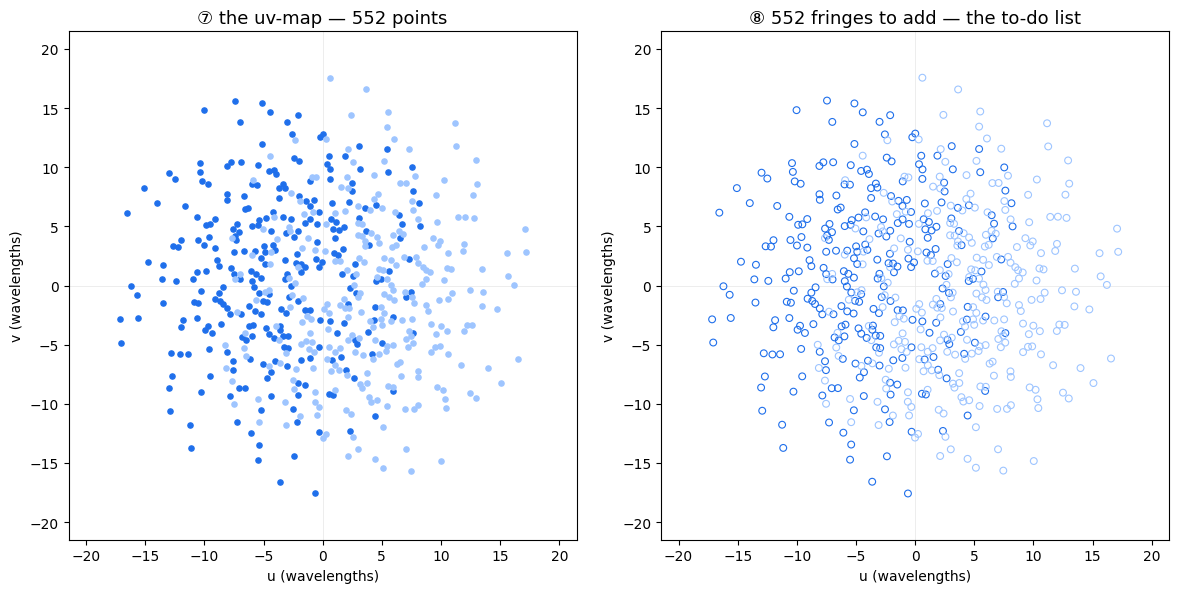
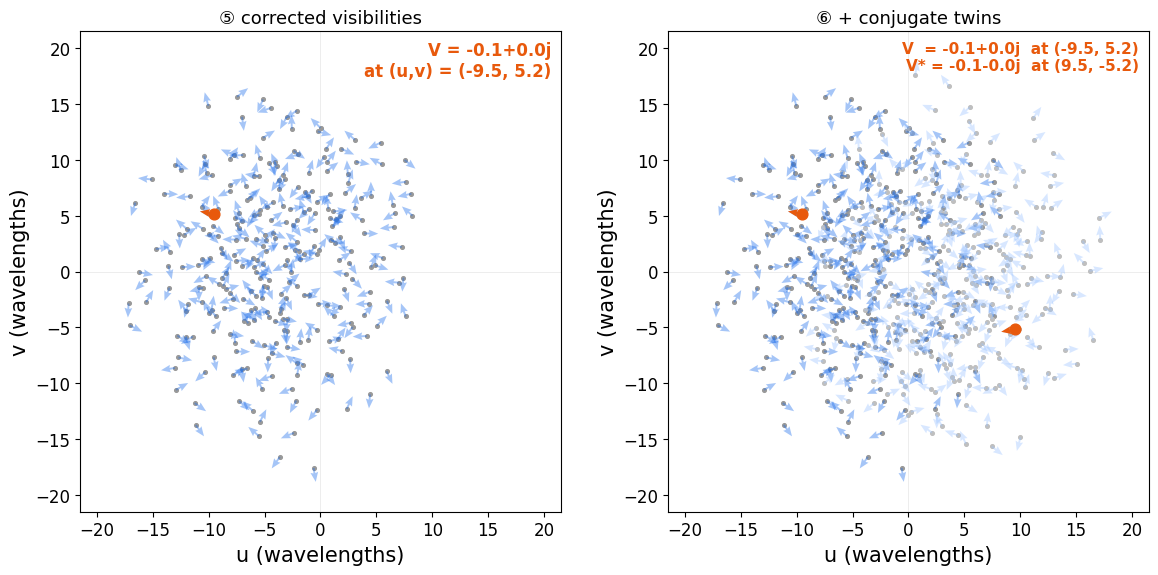
uv shenanigans added again, 4 slides

diff --git a/src/App.jsx b/src/App.jsx
@@ -32,16 +32,19 @@ const SLIDE_DATA = [
     layout: "interactive",
     instances: [ { sep: 0.87, ang: 109 }, { sep: 1.20, ang: 163 } ]
   },
-  {
-    stage: "The Map", title: "From Antennas to Calibrated Visibilities",
-    layout: "stack",
-    images: ["/uv1.png", "/uv2.png"]          // top + bottom
-  },
-  {
-    stage: "The Map", title: "The Complete uv-Map — and the To-Do List",
-    layout: "stack",
-    images: ["/uv3.png"]                        // slider drops in below this later
-  },
+
+
+    { stage: "The Map", title: "A Baseline Becomes a Point",
+    layout: "stack", images: ["/uv1.png"] },
+  { stage: "The Map", title: "Calibration Rotates the Arrows",
+    layout: "stack", images: ["/uv2.png"] },
+  { stage: "The Map", title: "Corrected, Plus the Conjugate Twins",
+    layout: "stack", images: ["/uv3.png"] },
+  { stage: "The Map", title: "The Complete uv-Map — and the To-Do List",
+    layout: "stack", images: ["/uv4.png"] },
+
+
+
 
 
   {

diff --git a/src/App.css b/src/App.css
@@ -62,6 +62,8 @@
 											}
 
 											.slide-content { margin: auto; max-width: 900px; }
+											.slide-content:has(.img-stack) { max-width: 100%; }
+
 											.slide-footer { display: flex; justify-content: flex-end; }
 
 											.qr-container { display: flex; flex-direction: column; align-items: center; gap: 4px; }